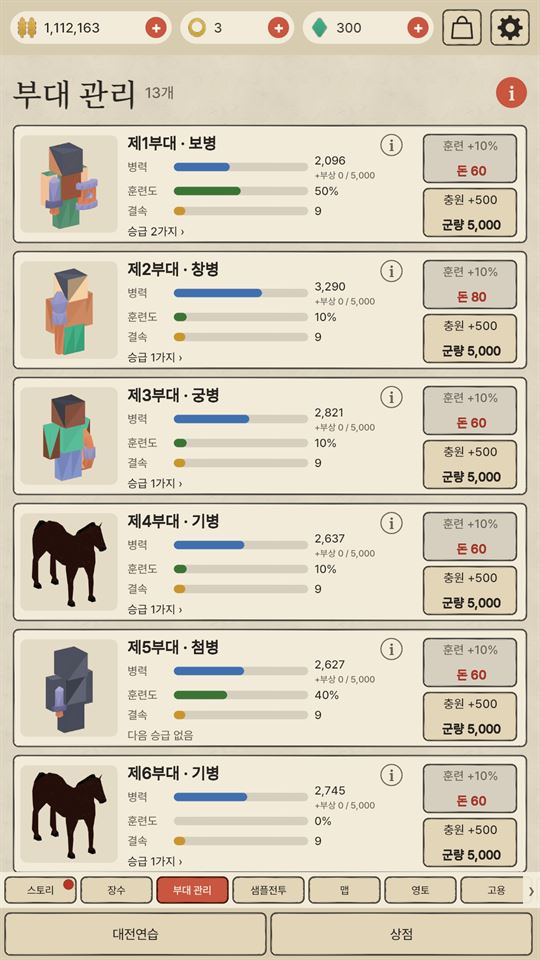
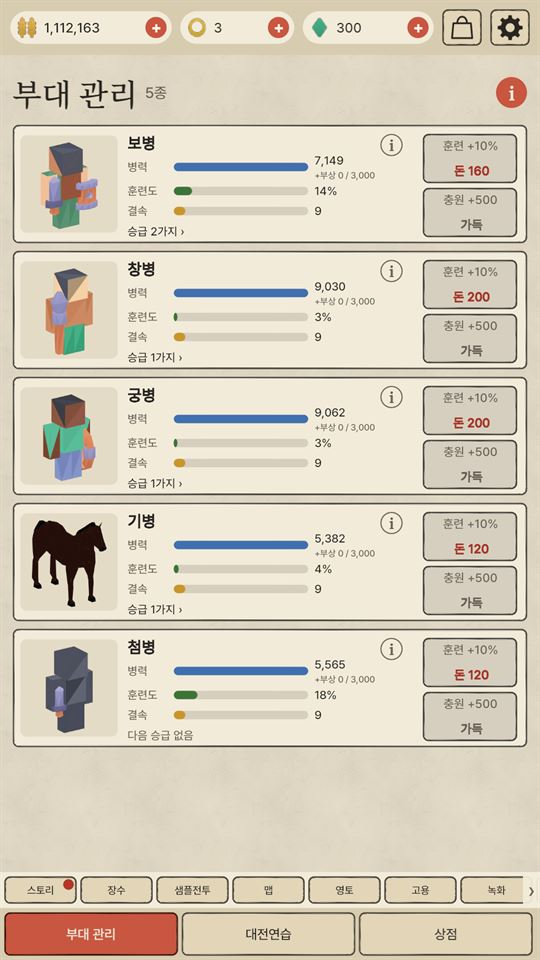
군대 개편 PR 1: 편성 탭 문구(병종 n칸·이름 중복), 캡처 06·07

diff --git a/unity/Assets/Game/Scripts/Screens/FormationScreens.cs b/unity/Assets/Game/Scripts/Screens/FormationScreens.cs
@@ -50,7 +50,7 @@ namespace Game.Unity.Screens
                 var c = ed.Draft[i];
                 long troops = ed.Troops(i), cap = ed.Cap(i);
                 string line = ctx.T("ui.formation.corpsLine", i + 1, ctx.GeneralName(c.GeneralId), FormationName(ctx, c.Formation), ctx.T("role." + c.Role),
-                    Ui.Colored(troops.ToString("N0"), troops > cap ? Palette.Bad : Palette.Text), cap.ToString("N0"), c.Slots.Count);
+                    Ui.Colored(troops.ToString("N0"), troops > cap ? Palette.Bad : Palette.Text), cap.ToString("N0"), c.Picks.Count);
                 var b = Ui.Button(list, line, () => app.Show(new CorpsEditScreen(index)), 130, Palette.Card, 30);
                 b.GetComponentInChildren<Text>().alignment = TextAnchor.MiddleLeft;
             }

diff --git a/docs/captures/latest/README.md b/docs/captures/latest/README.md
@@ -2,8 +2,8 @@
 
 > 규칙: [collab.md](../../collab.md) 7장. 이 폴더 하나만 쓰고, 새 캡처가 오면 **덮어쓴다**. 폭 540px JPG, LFS 밖.
 
-- 캡처: 2026-11-14 13:09 (01~05, 원본 `captures/20261114_130953`), 13:23 (06, 원본 `captures/20261114_132302`) `Game ▸ Capture All Screens`, 에디터 Play 1080×1920
-- 코드 기준: 01~05 = `main` 1e5dc67 (#144), 06 = `desktop/troops-06`
+- 캡처: 2026-11-14 13:09 (01~05, 원본 `captures/20261114_130953`), 13:23 (06, 원본 `captures/20261114_132302`) `Game ▸ Capture All Screens`, 에디터 Play 1080×1920 / 18:40 (06·07 군대 개편 뒤, 원본 `captures/20261114_184026`)
+- 코드 기준: 01~05 = `main` 1e5dc67 (#144), 06·07 = `desktop/army-v2` (군대 개편 PR 1), 06b = #145·#146
 - 비교 기준: [design/mockups/](../../design/mockups/README.md)의 각 화면 `mock_*.jpg`
 - 지난 전투 확인 캡처(pt*)·기록은 PR #141 README(이 폴더의 이전 판)에.
 
@@ -16,7 +16,8 @@
 | 03 약관 | [03_terms](03_terms.jpg) | [mock_default](../../design/mockups/03_terms/mock_default.jpg) | 맞음. 체크 상자 줄, 맨 위 "전체 동의", "보기 ›" → 본문 화면, 진행 안내 + 꺼진 [동의하고 시작] |
 | 04 메인 틀 + 스토리 | [04_main_story](04_main_story.jpg) | [mock_story](../../design/mockups/04_main_story/mock_story.jpg) | 맞음. 자원 칩·가방/톱니 아이콘 버튼, 띠 배너 자리(광고 꺼짐 → 높이 0), 다음 도전 카드, 깬 스텝 ✓ 줄, 잠긴 스텝 자물쇠 줄 |
 | 05 장수 탭 | [05_main_general](05_main_general.jpg) | [mock_default](../../design/mockups/05_generals/mock_default.jpg) | 맞음. 2열 카드(등급 테두리·꼬리표·Lv·능력치·작은 ⓘ), 정렬 ▾·모집·주홍 ⓘ. 초상 그림이 없어 원 안에 이름 첫 글자 |
-| 06 부대 관리 | [06_main_troop](06_main_troop.jpg) | [mock_list](../../design/mockups/06_troops/mock_list.jpg) | 맞음 (지금 규칙 범위). 병종 그림, 병력(+반투명 부상)·훈련도·결속 게이지, [훈련]·[충원] 2단 버튼, 작은 ⓘ, "승급 n가지 ›". 승급 부대 나무 카드는 규칙 변경 뒤 |
+| 06 부대 관리 | [06_main_troop](06_main_troop.jpg) | [mock_list](../../design/mockups/06_troops/mock_list.jpg) | 군대 개편 뒤: **병종 카드 5개** (예전 부대 13개가 세이브를 읽을 때 병종별로 합쳐짐 — 보병 7,149 등). 계급 십부장(최대 3,000)이라 넘친 병종은 [충원] "가득". 탭은 배포 줄 |
+| 07 부대 편성 (임시판) | [07_main_formation](07_main_formation.jpg) | (07 시안 전) | 예전 세이브의 군단 3개·칸 4~5개라 계급(십부장: 군단 1·칸 1) 초과 오류가 빨갛게 보임 — 정책대로 (출진은 넘는 것을 빼고 나감). 군단 줄 "병종 n칸", 병종 줄 이름 중복은 이 캡처 뒤 고침 |
 | 06 승급 화면 | [06b_troop_promote](06b_troop_promote.jpg) | [mock_detail](../../design/mockups/06_troops/mock_detail.jpg) | 조건 체크 줄·꺼진 [승급]은 맞음. **승급할 인원 줄 없음**(규칙 변경 뒤), 위 자원 바·아래 탭 없음(따로 열리는 화면 — 규칙 작업 때 메인 틀 안으로) |
 
 ## 캡처로 못 본 것 (사람이 눌러 확인)
